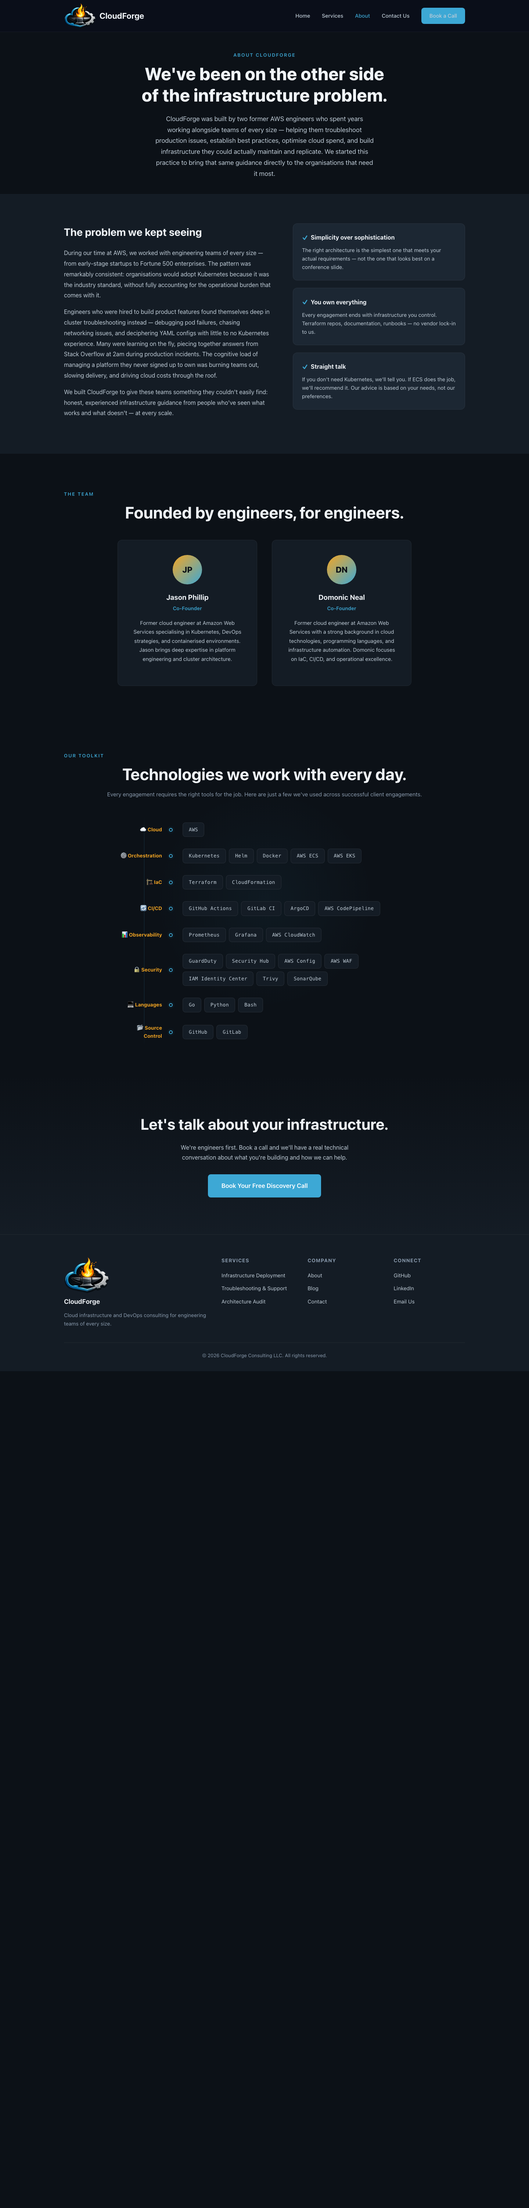
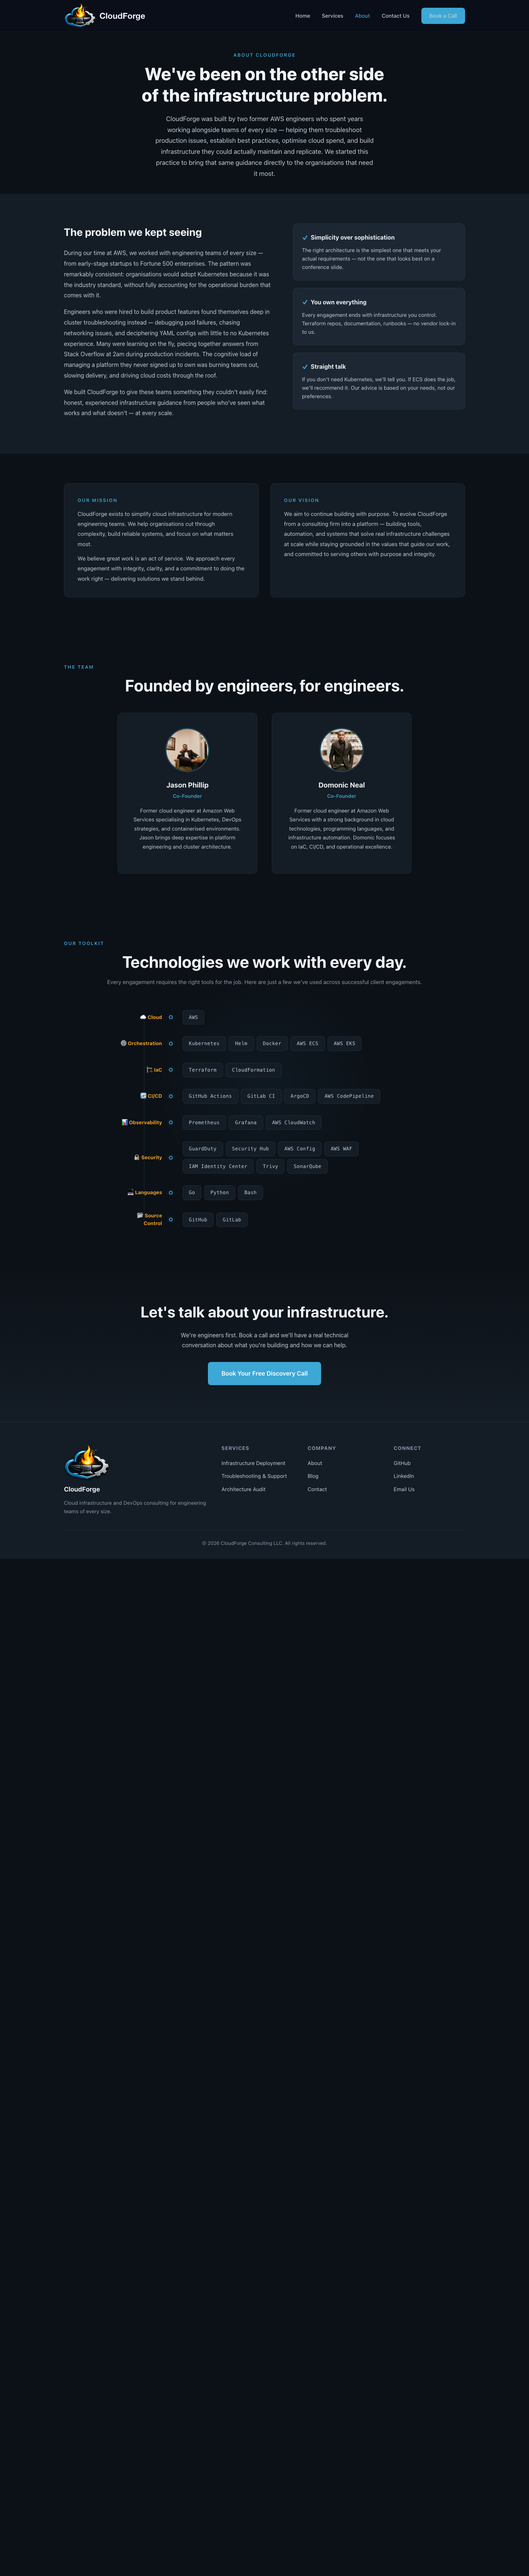
feat: add mission/vision statements, founder photos, remove light mode toggle, update nav links and pricing, refresh screenshots

diff --git a/about.html b/about.html
@@ -91,6 +91,36 @@
     </div>
   </section>
 
+  <!-- MISSION & VISION -->
+  <section class="mission-vision">
+    <div class="container">
+      <div class="mv__grid">
+        <div class="mv__card">
+          <p class="section-eyebrow">Our Mission</p>
+          <p class="mv__text">
+            CloudForge exists to simplify cloud infrastructure for modern engineering teams.
+            We help organisations cut through complexity, build reliable systems, and focus
+            on what matters most.
+          </p>
+          <p class="mv__text">
+            We believe great work is an act of service. We approach every engagement with
+            integrity, clarity, and a commitment to doing the work right — delivering
+            solutions we stand behind.
+          </p>
+        </div>
+        <div class="mv__card">
+          <p class="section-eyebrow">Our Vision</p>
+          <p class="mv__text">
+            We aim to continue building with purpose. To evolve CloudForge from a consulting
+            firm into a platform — building tools, automation, and systems that solve real
+            infrastructure challenges at scale while staying grounded in the values that
+            guide our work, and committed to serving others with purpose and integrity.
+          </p>
+        </div>
+      </div>
+    </div>
+  </section>
+
   <!-- FOUNDERS -->
   <section class="founders">
     <div class="container">
@@ -100,7 +130,7 @@
 
         <div class="founder-card">
           <div class="founder-card__avatar">
-            <div class="avatar-placeholder">JP</div>
+            <img src="assets/jason.jpeg" alt="Jason Phillip" class="founder-card__photo">
           </div>
           <h3>Jason Phillip</h3>
           <p class="founder-card__role">Co-Founder</p>
@@ -113,7 +143,7 @@
 
         <div class="founder-card">
           <div class="founder-card__avatar">
-            <div class="avatar-placeholder">DN</div>
+            <img src="assets/domonic.jpg" alt="Domonic Neal" class="founder-card__photo">
           </div>
           <h3>Domonic Neal</h3>
           <p class="founder-card__role">Co-Founder</p>
@@ -262,5 +292,23 @@
       this.setAttribute('aria-expanded', !expanded);
       nav.classList.toggle('nav__links--open');
     });
+  </script>
+
+  <script>
+    // Theme toggle
+    (function() {
+      var saved = localStorage.getItem('cf-theme');
+      if (saved === 'light') document.body.classList.add('light');
+      
+      var btn = document.querySelector('.theme-toggle');
+      btn.textContent = document.body.classList.contains('light') ? '🌙' : '☀';
+      
+      btn.addEventListener('click', function() {
+        document.body.classList.toggle('light');
+        var isLight = document.body.classList.contains('light');
+        localStorage.setItem('cf-theme', isLight ? 'light' : 'dark');
+        btn.textContent = isLight ? '🌙' : '☀';
+      });
+    })();
   </script>
 </body>

diff --git a/about.css b/about.css
@@ -85,6 +85,17 @@
   margin-bottom: 20px;
 }
 
+.founder-card__photo {
+  width: 120px;
+  height: 120px;
+  border-radius: 50%;
+  object-fit: cover;
+  object-position: top;
+  margin: 0 auto;
+  display: block;
+  border: 3px solid rgba(61,168,213,0.3);
+}
+
 .avatar-placeholder {
   width: 80px;
   height: 80px;
@@ -272,6 +283,41 @@
 
 @media (max-width: 768px) {
   .origin__grid {
+    grid-template-columns: 1fr;
+  }
+}
+
+/* Mission & Vision */
+.mission-vision {
+  padding: 80px 24px;
+}
+
+.mv__grid {
+  display: grid;
+  grid-template-columns: 1fr 1fr;
+  gap: 32px;
+}
+
+.mv__card {
+  background: var(--navy-light);
+  border: 1px solid rgba(255,255,255,0.06);
+  border-radius: var(--radius);
+  padding: 36px;
+}
+
+.mv__text {
+  color: var(--gray-light);
+  font-size: 0.95rem;
+  line-height: 1.8;
+  margin-bottom: 12px;
+}
+
+.mv__text:last-child {
+  margin-bottom: 0;
+}
+
+@media (max-width: 768px) {
+  .mv__grid {
     grid-template-columns: 1fr;
   }
 }

diff --git a/contact.html b/contact.html
@@ -153,5 +153,23 @@
       nav.classList.toggle('nav__links--open');
     });
   </script>
+
+  <script>
+    // Theme toggle
+    (function() {
+      var saved = localStorage.getItem('cf-theme');
+      if (saved === 'light') document.body.classList.add('light');
+      
+      var btn = document.querySelector('.theme-toggle');
+      btn.textContent = document.body.classList.contains('light') ? '🌙' : '☀';
+      
+      btn.addEventListener('click', function() {
+        document.body.classList.toggle('light');
+        var isLight = document.body.classList.contains('light');
+        localStorage.setItem('cf-theme', isLight ? 'light' : 'dark');
+        btn.textContent = isLight ? '🌙' : '☀';
+      });
+    })();
+  </script>
 </body>
 </html>

diff --git a/resources.html b/resources.html
@@ -206,5 +206,23 @@
       nav.classList.toggle('nav__links--open');
     });
   </script>
+
+  <script>
+    // Theme toggle
+    (function() {
+      var saved = localStorage.getItem('cf-theme');
+      if (saved === 'light') document.body.classList.add('light');
+      
+      var btn = document.querySelector('.theme-toggle');
+      btn.textContent = document.body.classList.contains('light') ? '🌙' : '☀';
+      
+      btn.addEventListener('click', function() {
+        document.body.classList.toggle('light');
+        var isLight = document.body.classList.contains('light');
+        localStorage.setItem('cf-theme', isLight ? 'light' : 'dark');
+        btn.textContent = isLight ? '🌙' : '☀';
+      });
+    })();
+  </script>
 </body>
 </html>

diff --git a/index.html b/index.html
@@ -353,4 +353,22 @@
       nav.classList.toggle('nav__links--open');
     });
   </script>
+
+  <script>
+    // Theme toggle
+    (function() {
+      var saved = localStorage.getItem('cf-theme');
+      if (saved === 'light') document.body.classList.add('light');
+      
+      var btn = document.querySelector('.theme-toggle');
+      btn.textContent = document.body.classList.contains('light') ? '🌙' : '☀';
+      
+      btn.addEventListener('click', function() {
+        document.body.classList.toggle('light');
+        var isLight = document.body.classList.contains('light');
+        localStorage.setItem('cf-theme', isLight ? 'light' : 'dark');
+        btn.textContent = isLight ? '🌙' : '☀';
+      });
+    })();
+  </script>
 </body>

diff --git a/services.html b/services.html
@@ -458,4 +458,22 @@
       nav.classList.toggle('nav__links--open');
     });
   </script>
+
+  <script>
+    // Theme toggle
+    (function() {
+      var saved = localStorage.getItem('cf-theme');
+      if (saved === 'light') document.body.classList.add('light');
+      
+      var btn = document.querySelector('.theme-toggle');
+      btn.textContent = document.body.classList.contains('light') ? '🌙' : '☀';
+      
+      btn.addEventListener('click', function() {
+        document.body.classList.toggle('light');
+        var isLight = document.body.classList.contains('light');
+        localStorage.setItem('cf-theme', isLight ? 'light' : 'dark');
+        btn.textContent = isLight ? '🌙' : '☀';
+      });
+    })();
+  </script>
 </body>
